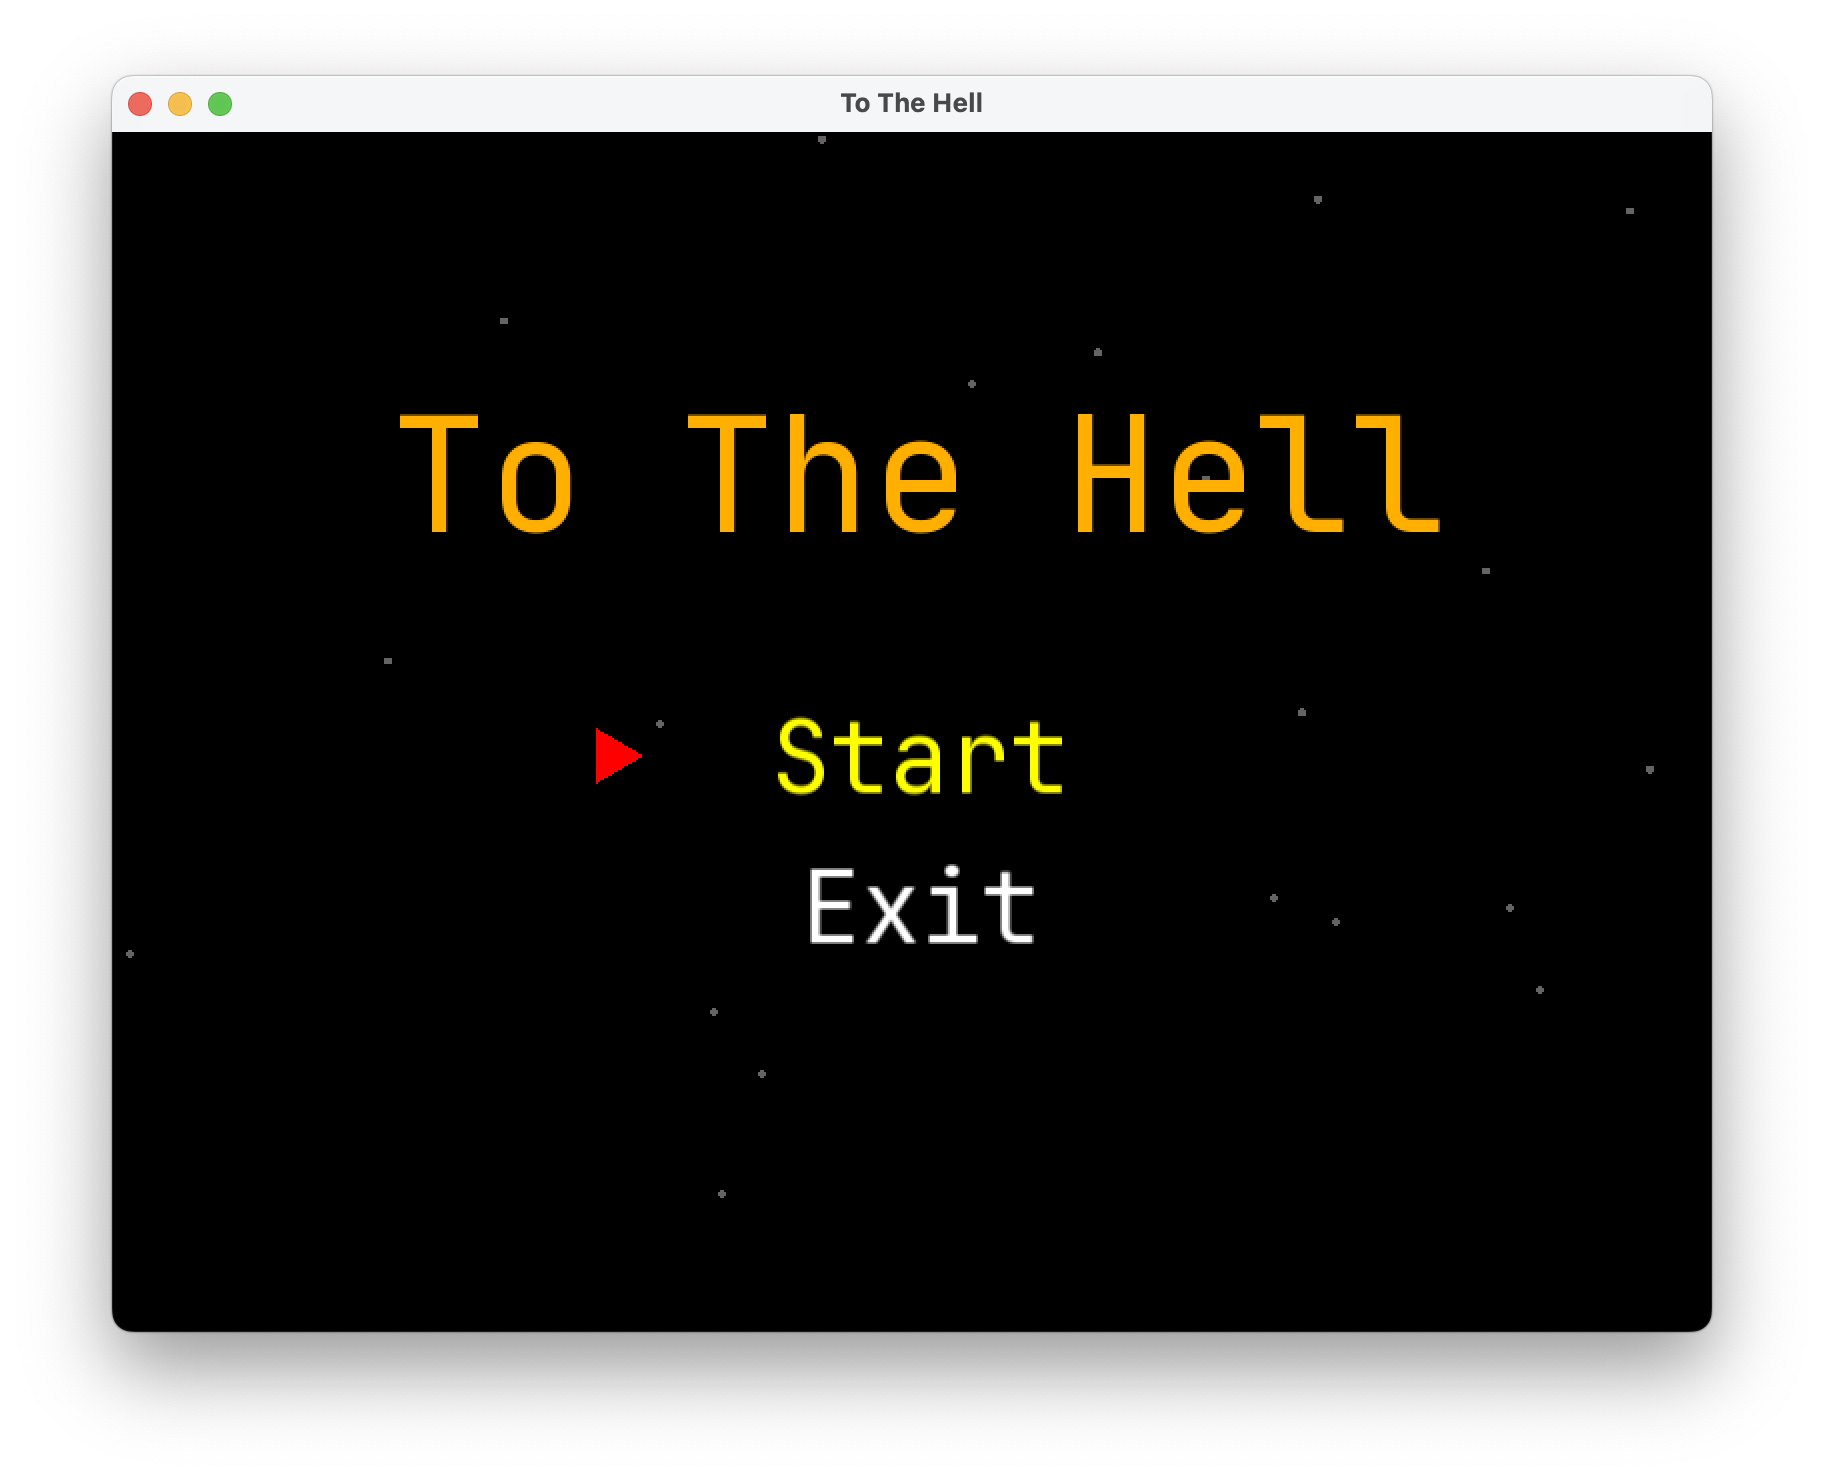
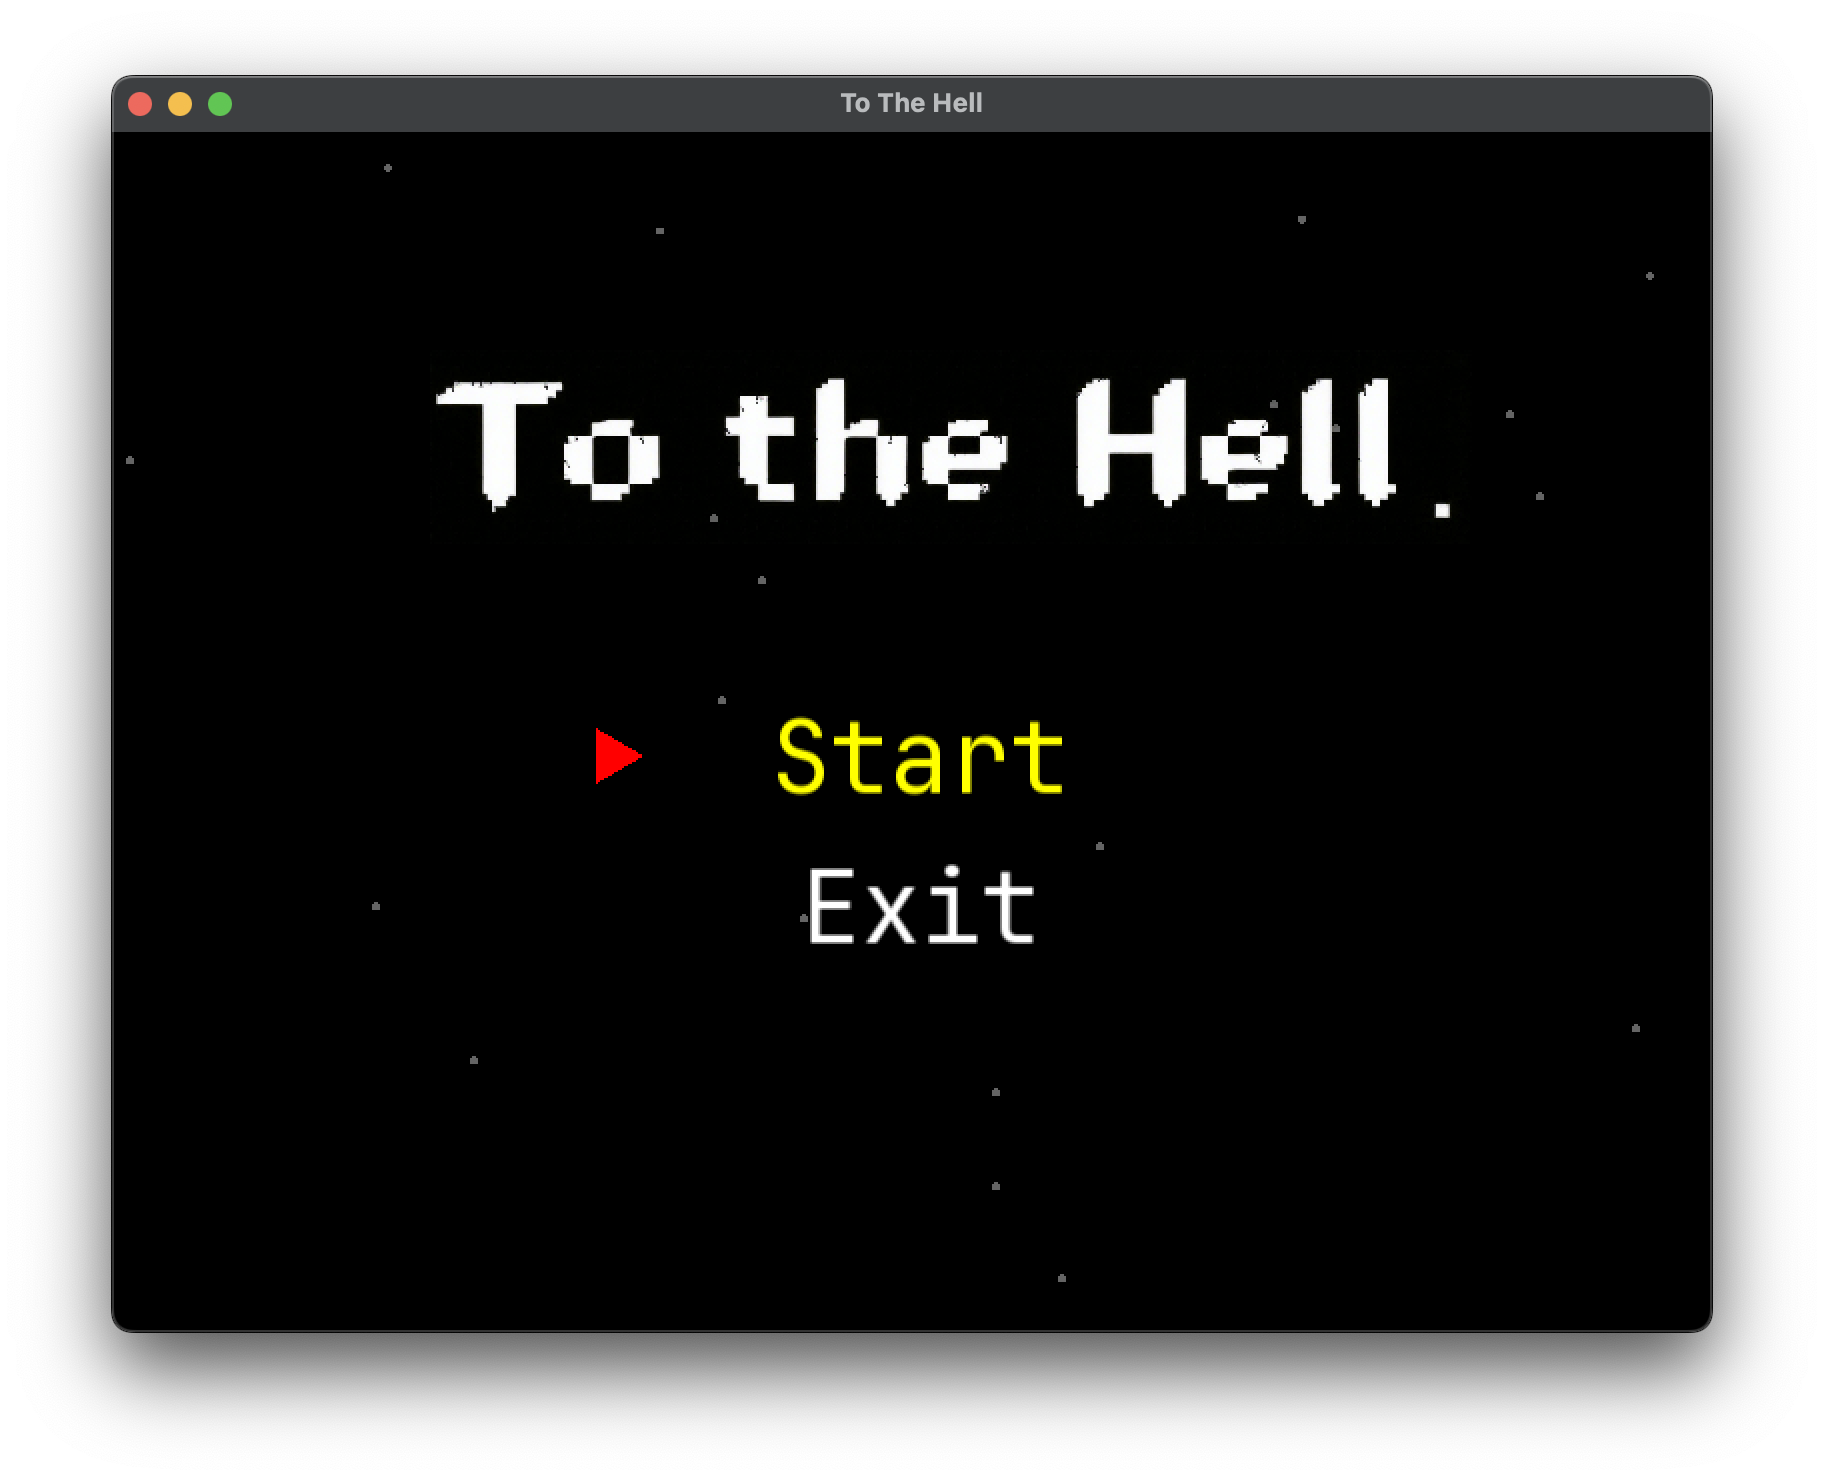
feat:main menu update

Changed region(s): [[0.0312, 0.0932, 0.9688, 0.9635], [0.2188, 0.2486, 0.8125, 0.373], [0.0625, 0.0311, 0.9375, 0.0932]]

diff --git a/src/View/MainMenuView.cpp b/src/View/MainMenuView.cpp
@@ -10,12 +10,18 @@ MainMenuView::MainMenuView(Core::Engine &engine) : View::Page(engine) {
     }
     view_model = std::make_shared<ViewModel::MainMenuViewModel>(engine,window_size);
 
-    title_text.setString(engine.getGameTitle());
-    title_text.setCharacterSize(80);
-    title_text.setFillColor(sf::Color::Red);
-    title_text.setFont(font);
-    title_text.setOrigin(title_text.getLocalBounds().width / 2, title_text.getLocalBounds().height / 2);
-    title_text.setPosition(window_size.x / 2, window_size.y / 4);
+    if (!title_texture.loadFromFile("assets/images/title.png")) {
+        std::cerr << "Error loading title image!" << std::endl;
+        return;
+    }
+    
+    title_sprite.setTexture(title_texture);
+    
+    title_sprite.setScale(0.4f, 0.4f);
+
+    sf::FloatRect bounds = title_sprite.getLocalBounds();
+    title_sprite.setOrigin(bounds.width / 2, bounds.height / 2);
+    title_sprite.setPosition(window_size.x / 2, window_size.y / 4);
 
     current_selection = view_model->getCurrentSelectionIndex();
     for (auto s: view_model->getMenuOptions()){
@@ -44,8 +50,6 @@ void MainMenuView::update(float deltaTime) {
     view_model->updateAnimationState(deltaTime);
 
     current_selection = view_model->getCurrentSelectionIndex();
-
-    title_text.setFillColor(view_model->getTitleColor());
 
     for (int i = 0; i < menu_options.size(); ++i) {
         if (i == current_selection) {
@@ -85,7 +89,7 @@ void MainMenuView::render(sf::RenderWindow& window) {
     for (const auto& particle : background_particles) {
         window.draw(particle);
     }
-    window.draw(title_text);
+    window.draw(title_sprite);
 
     for (int i = 0; i < menu_options.size(); ++i) {
         window.draw(menu_options[i]);

diff --git a/src/ViewModel/MainMenuViewModel.cpp b/src/ViewModel/MainMenuViewModel.cpp
@@ -77,13 +77,6 @@ void MainMenuViewModel::confirmSelection() {
     }
 }
 
-sf::Color MainMenuViewModel::getTitleColor() const {
-    int r = 255;
-    int g = 215 + 40 * std::sin(animation_time_ * 1.5f);
-    int b = 0;
-    return sf::Color(r, g, b);
-}
-
 void MainMenuViewModel::updateAnimationState(float delta_time) {
     animation_time_ += delta_time;
 

diff --git a/include/View/MainMenuView.h b/include/View/MainMenuView.h
@@ -21,7 +21,8 @@ public:
 private:
     std::shared_ptr<ViewModel::MainMenuViewModel> view_model;
     
-    sf::Text title_text;
+    sf::Texture title_texture;
+    sf::Sprite title_sprite;
 
     std::vector<sf::Text> menu_options;
     int current_selection;

diff --git a/include/ViewModel/MainMenuViewModel.h b/include/ViewModel/MainMenuViewModel.h
@@ -26,8 +26,6 @@ public:
     int getCurrentSelectionIndex() const;
 
 public:
-    sf::Color getTitleColor() const;
-    
     std::vector<sf::Vector2f> getBackgroundParticles() const;
     
     void updateAnimationState(float delta_time);
